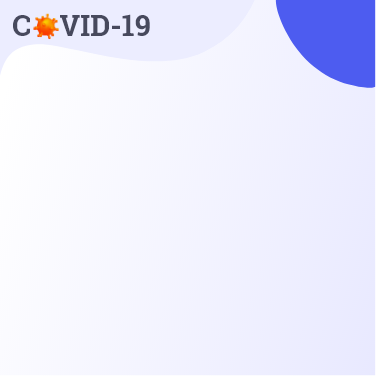
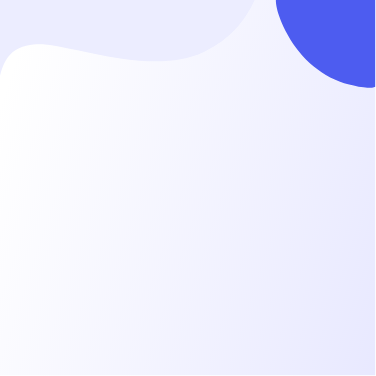
changes.

Changed region(s): [[0.0293, 0.0293, 0.4096, 0.117]]

diff --git a/symptoms.html b/symptoms.html
@@ -34,8 +34,9 @@
     <header>
         <nav class="navbar navbar-expand-lg navbar-dark bg-transparent" id="nav">
             <a class="navbar-brand" href="index.html">
-                <img src="img/logo.png" alt="logo">
-            </a>
+				<img src="img/logo.png" class="d-block" id="navbarBrandImg" alt="logo">
+				<img src="img/logo-small.png" class="d-none" id="navbarBrandImgSmall" alt="logo">
+			</a>
             <button class="navbar-toggler" id="navbarToggler" type="button" data-toggle="collapse"
                 data-target="#navbarSupportedContent" aria-controls="navbarSupportedContent" aria-expanded="false"
                 aria-label="Toggle navigation">
@@ -135,7 +136,7 @@
             <div class="mt-5 mb-5">
                 <div class="row text-left">
                     <div class="col-lg-2 col-md-3">
-                        <img src="img/fever-symptom.png" alt="" class="symptoms__icons">
+                        <img src="img/cough-symptom.png" alt="" class="symptoms__icons">
                     </div>
                     <div class="col-lg-10 col-md-9">
                         <div class="d-flex align-items-center h-100">
@@ -157,7 +158,7 @@
             <div class="mt-5 mb-5">
                 <div class="row text-left">
                     <div class="col-lg-2 col-md-3">
-                        <img src="img/fever-symptom.png" alt="" class="symptoms__icons">
+                        <img src="img/breath-symptom.png" alt="" class="symptoms__icons">
                     </div>
                     <div class="col-lg-10 col-md-9">
                         <div class="d-flex align-items-center h-100">

diff --git a/js/custom.js b/js/custom.js
@@ -12,21 +12,17 @@ window.onscroll = function () {
         var contactButton = document.getElementById('contactButton');
         contactButton.classList.add("text-white");
 
-        if (screen.width <= 991) {
-            document.getElementById('navbarBrandImg').style.display = "block";
-        }
-
     } else {
         myNav.classList.add("bg-transparent");
         myNav.classList.add("navbar-dark");
         myNav.classList.remove("bg-white");
         myNav.classList.remove("navbar-light");
         myNav.classList.remove("--covid-dark-shadow");
-        if (document.body.scrollTop === 0 || document.documentElement.scrollTop === 0) {
-            document.getElementById('navbarBrandImg').style.display = "none";
-        }
+
+
     }
 };
+
 
 $('.owl-carousel').owlCarousel({
     loop: true,

diff --git a/contact.html b/contact.html
@@ -34,8 +34,9 @@
     <header>
         <nav class="navbar navbar-expand-lg navbar-dark bg-transparent" id="nav">
             <a class="navbar-brand" href="index.html">
-                <img src="img/logo.png" alt="logo">
-            </a>
+				<img src="img/logo.png" class="d-block" id="navbarBrandImg" alt="logo">
+				<img src="img/logo-small.png" class="d-none" id="navbarBrandImgSmall" alt="logo">
+			</a>
             <button class="navbar-toggler" id="navbarToggler" type="button" data-toggle="collapse"
                 data-target="#navbarSupportedContent" aria-controls="navbarSupportedContent" aria-expanded="false"
                 aria-label="Toggle navigation">

diff --git a/privacy.html b/privacy.html
@@ -34,8 +34,9 @@
     <header>
         <nav class="navbar navbar-expand-lg navbar-dark bg-transparent" id="nav">
             <a class="navbar-brand" href="index.html">
-                <img src="img/logo.png" alt="logo">
-            </a>
+				<img src="img/logo.png" class="d-block" id="navbarBrandImg" alt="logo">
+				<img src="img/logo-small.png" class="d-none" id="navbarBrandImgSmall" alt="logo">
+			</a>
             <button class="navbar-toggler" id="navbarToggler" type="button" data-toggle="collapse"
                 data-target="#navbarSupportedContent" aria-controls="navbarSupportedContent" aria-expanded="false"
                 aria-label="Toggle navigation">

diff --git a/stop.html b/stop.html
@@ -34,8 +34,9 @@
     <header>
         <nav class="navbar navbar-expand-lg navbar-dark bg-transparent" id="nav">
             <a class="navbar-brand" href="index.html">
-                <img src="img/logo.png" alt="logo">
-            </a>
+				<img src="img/logo.png" class="d-block" id="navbarBrandImg" alt="logo">
+				<img src="img/logo-small.png" class="d-none" id="navbarBrandImgSmall" alt="logo">
+			</a>
             <button class="navbar-toggler" id="navbarToggler" type="button" data-toggle="collapse"
                 data-target="#navbarSupportedContent" aria-controls="navbarSupportedContent" aria-expanded="false"
                 aria-label="Toggle navigation">

diff --git a/index.html b/index.html
@@ -33,7 +33,8 @@
 	<header>
 		<nav class="navbar navbar-expand-lg navbar-dark bg-transparent" id="nav">
 			<a class="navbar-brand" href="index.html">
-				<img src="img/logo.png" id="navbarBrandImg" alt="logo">
+				<img src="img/logo.png" class="d-block" id="navbarBrandImg" alt="logo">
+				<img src="img/logo-small.png" class="d-none" id="navbarBrandImgSmall" alt="logo">
 			</a>
 			<button class="navbar-toggler" id="navbarToggler" type="button" data-toggle="collapse"
 				data-target="#navbarSupportedContent" aria-controls="navbarSupportedContent" aria-expanded="false"

diff --git a/hotspots.html b/hotspots.html
@@ -34,7 +34,8 @@
 	<header>
 		<nav class="navbar navbar-expand-lg navbar-dark bg-transparent" id="nav">
 			<a class="navbar-brand" href="index.html">
-				<img src="img/logo.png" alt="logo">
+				<img src="img/logo.png" class="d-block" id="navbarBrandImg" alt="logo">
+				<img src="img/logo-small.png" class="d-none" id="navbarBrandImgSmall" alt="logo">
 			</a>
 			<button class="navbar-toggler" id="navbarToggler" type="button" data-toggle="collapse"
 				data-target="#navbarSupportedContent" aria-controls="navbarSupportedContent" aria-expanded="false"

diff --git a/css/style.css b/css/style.css
@@ -160,6 +160,7 @@ header .navbar-light li:nth-last-of-type(1) {
 
 header .navbar-light li #contactButton {
   color: #fafafe !important;
+  border: none !important;
 }
 
 .hero {
@@ -375,8 +376,11 @@ footer .footer__links li a {
   .navbar .bar {
     display: none;
   }
-  nav a.navbar-brand img {
-    display: none;
+  nav a.navbar-brand #navbarBrandImg {
+    display: none !important;
+  }
+  nav a.navbar-brand #navbarBrandImgSmall {
+    display: block !important;
   }
   .hero {
     background-image: url(../img/hero-991.png);

diff --git a/css/style.scss b/css/style.scss
@@ -168,6 +168,7 @@ header {
         li {
             #contactButton {
                 color: $covid-light !important;
+                border: none !important;
             }
         }
     }
@@ -394,8 +395,11 @@ $section-height-medium-screen: 500px;
     }
 
     nav{
-        a.navbar-brand img{
-            display: none;
+        a.navbar-brand #navbarBrandImg{
+            display: none !important;
+        }
+        a.navbar-brand #navbarBrandImgSmall{
+            display: block !important;
         }
     }
 
